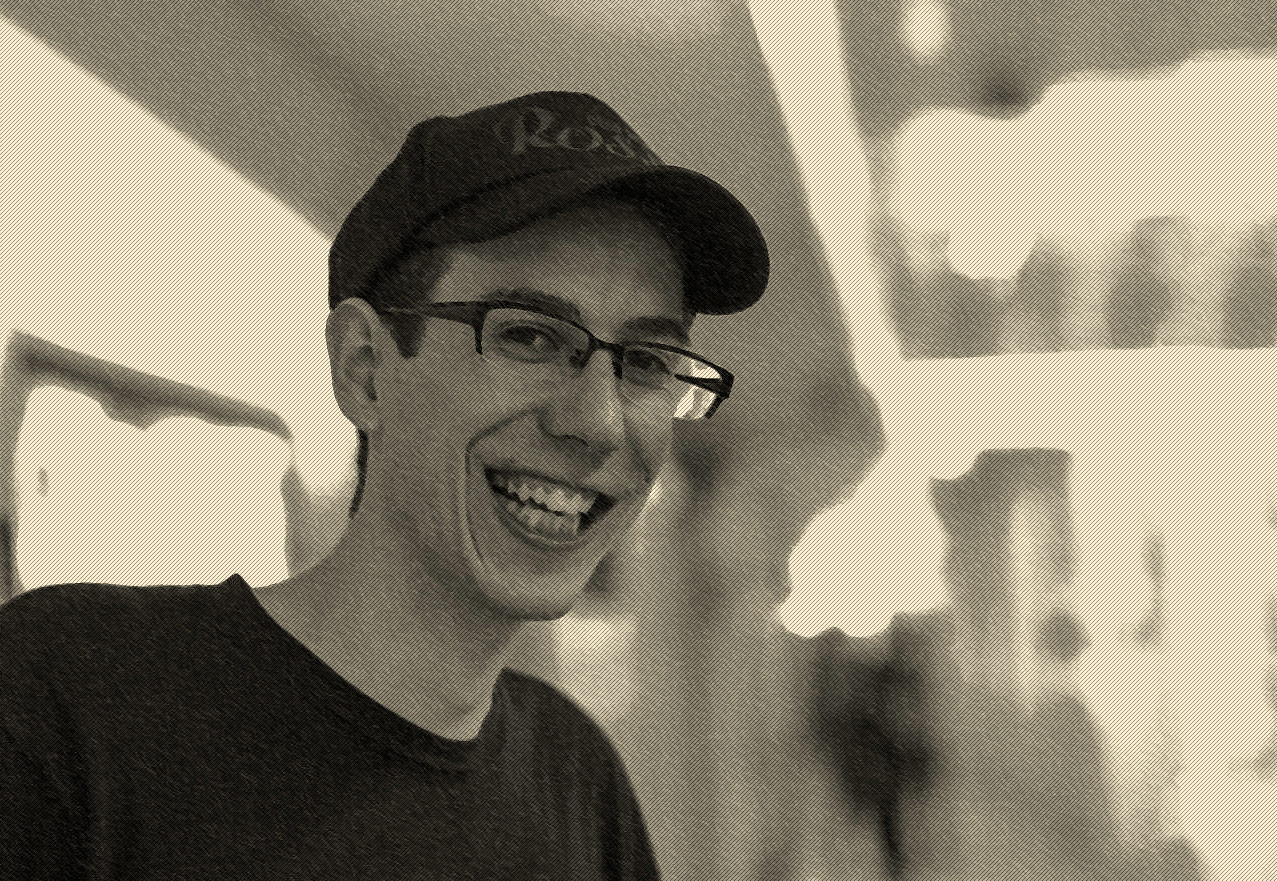
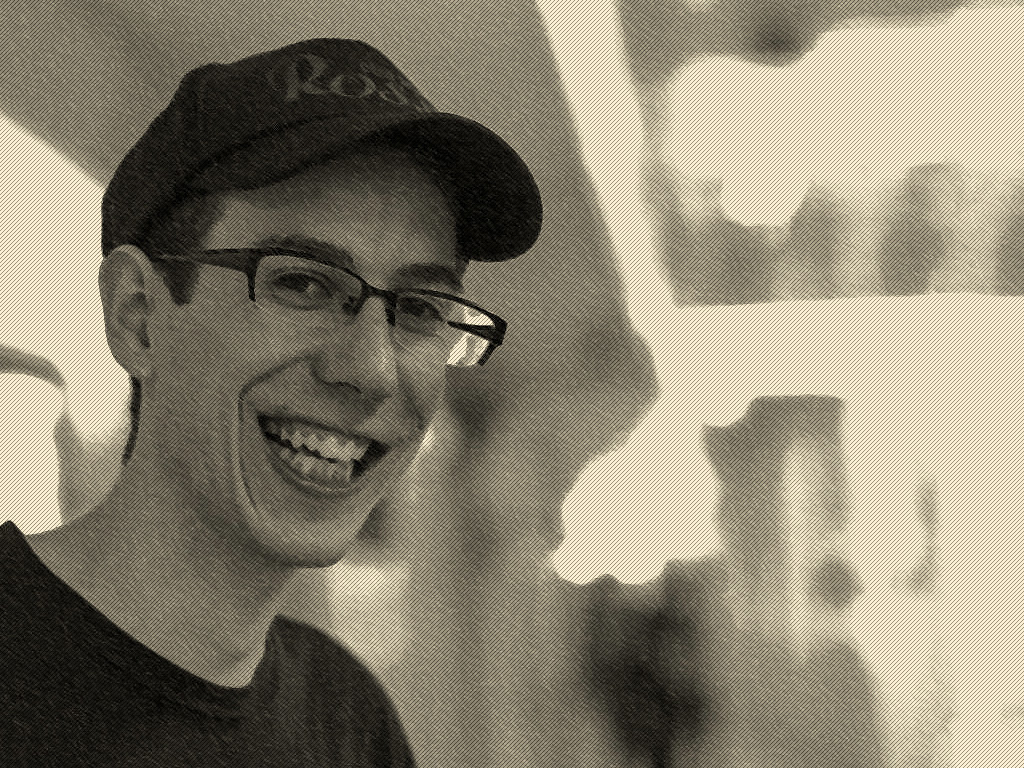
Tiny fixes

diff --git a/css/styles.css b/css/styles.css
@@ -232,12 +232,14 @@ h1 {
   font-size: 28px;
   font-weight: bold;
   font-weight: 600;
+  line-height: 1.3;
   letter-spacing: -1px; }
 
 h2 {
   font-size: 21px;
   font-weigt: normal;
   font-weight: 400;
+  line-height: 1.3;
   letter-spacing: -1px;
   margin: 0 0 20px 0; }
 
@@ -311,7 +313,7 @@ p {
     width: 100%; }
 
   body {
-    font-family: "Kalam", "ヒラギノ角ゴ Pro W3", "Hiragino Kaku Gothic Pro", "HiraKakuProN-W3", "ＭＳ Ｐゴシック", "メイリオ";
+    font-family: "ヒラギノ角ゴ Pro W3", "Hiragino Kaku Gothic Pro", "HiraKakuProN-W3", "ＭＳ Ｐゴシック", "メイリオ";
     font-size: 62.5%;
     position: relative; }
 
@@ -330,6 +332,21 @@ p {
     right: 0;
     top: 0;
     z-index: 2; }
+
+  .backstretch {
+    bottom: 0;
+    display: block;
+    left: 0;
+    position: fixed;
+    right: 0;
+    top: 0;
+    width: 100%; }
+    .backstretch img {
+      height: auto;
+      min-height: 100%;
+      min-width: 100%;
+      position: relative;
+      width: auto; }
 
   .ambient {
[1 lines of base64/hex data omitted]
@@ -374,7 +391,4 @@ p {
     background-color: #fdf6e3;
     filter: progid:DXImageTransform.Microsoft.Chroma(Color=#fdf6e3) progid:DXImageTransform.Microsoft.Glow(Strength=1, Color=#fdf6e3); }
     .fossil h1 a, .fossil h2 a, .fossil p a {
-      position: relative; }
-
-  .backstretch {
-    display: block; } }
+      position: relative; } }

diff --git a/index.html b/index.html
@@ -63,6 +63,7 @@
     </ul>
   </footer>
 </div>
+<div class="backstretch"><img src="/images/pierre-henri-lavigne_solarized.jpg" alt=""></div>
 <div class="ambient">
   <script src="//cdnjs.cloudflare.com/ajax/libs/jquery/2.1.4/jquery.min.js"></script>
   <script src="//cdnjs.cloudflare.com/ajax/libs/jquery-backstretch/2.0.4/jquery.backstretch.min.js"></script>

diff --git a/css/webfonts.css b/css/webfonts.css
@@ -11,7 +11,8 @@ h1 {
   letter-spacing: normal; }
 
 h2 {
-  font-size: 21px;
+  font-family: 'Mashup';
+  font-size: 24px;
   font-weigt: normal;
   font-weight: 400;
   letter-spacing: normal;

diff --git a/README.md b/README.md
@@ -1,5 +1,5 @@
 #Design
-
+<pre style="font-size:12pt;font-family:'MS PGothic','ＭＳ Ｐゴシック','Trebuchet MS',Verdana,Futura,Arial,Helvetica,sans-serif;line-height:1"></pre>
 [Tom Watson](http://www.tmwtsn.com)'s personal page is my reference in layout.
 Perfectly straight to the point in both showing and writing.
 
@@ -14,7 +14,7 @@ Distributed for free by Dan Leech under the Free Art License.
 
 Built using the followingz~:
 
-* An [Apple](http://www.apple.com/) computer, currently a non-Retina MacBook Pro (17-inch, Mid 2010) running Mac OS X 10.10.4 - 2,66 GHz Intel Core i7 - 8 Go 1067 MHz DDR3 - NVIDIA GeForce GT 330M 512 Mo - Custom SSD 249,98 Go
+* An [Apple](http://www.apple.com/) computer, currently a non-Retina MacBook Pro (17-inch, Mid 2010) running Mac OS X 10.10.5 - 2,66 GHz Intel Core i7 - 8 Go 1067 MHz DDR3 - NVIDIA GeForce GT 330M 512 Mo - Custom SSD 249,98 Go
 * The features-proof text editor [Coda 2](https://panic.com/coda/) to handle code anywhere
 * Essential only mac app [Codekit](https://incident57.com/codekit/) to lively preview and compile code
 * Open-Source css framework [Compass](http://compass-style.org/)
